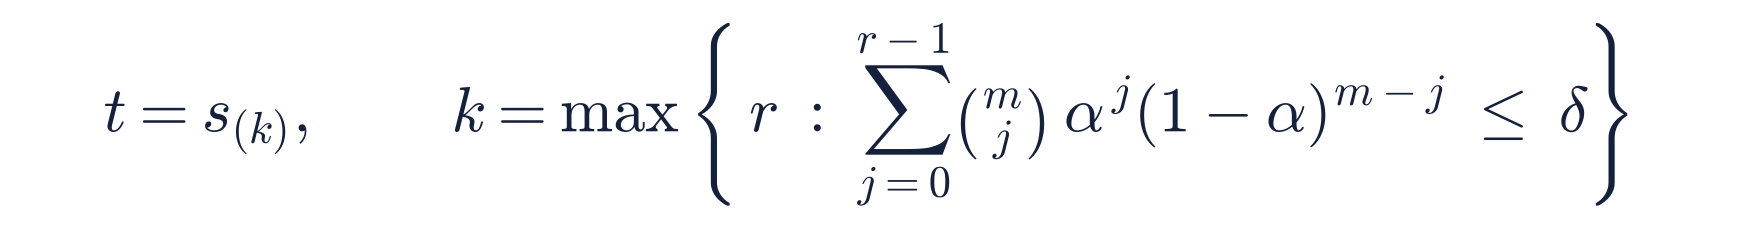
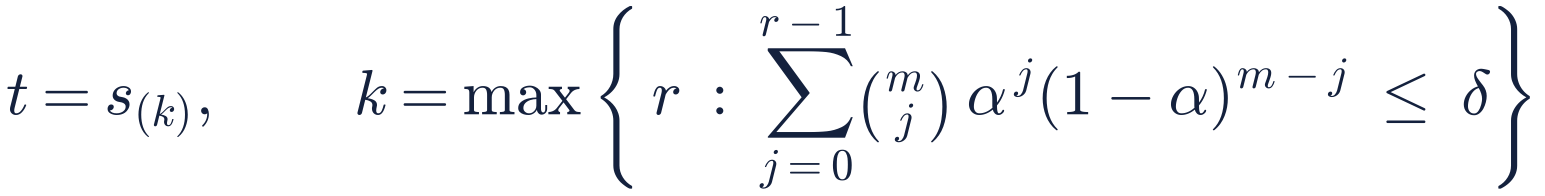
P3 slides: crop the formula image

diff --git a/scripts/make_p3_slide_figures.py b/scripts/make_p3_slide_figures.py
@@ -352,7 +352,7 @@ def np_formula():
         fig = plt.figure(figsize=(8.7, 1.15))
         fig.text(0.5, 0.5, tex, ha="center", va="center", fontsize=23, color=NAVY)
         OUT.mkdir(parents=True, exist_ok=True)
-        fig.savefig(OUT / "np_formula.png", dpi=200, transparent=True); plt.close(fig)
+        fig.savefig(OUT / "np_formula.png", dpi=200, transparent=True, bbox_inches="tight", pad_inches=0.03); plt.close(fig)
 
 
 if __name__ == "__main__":
